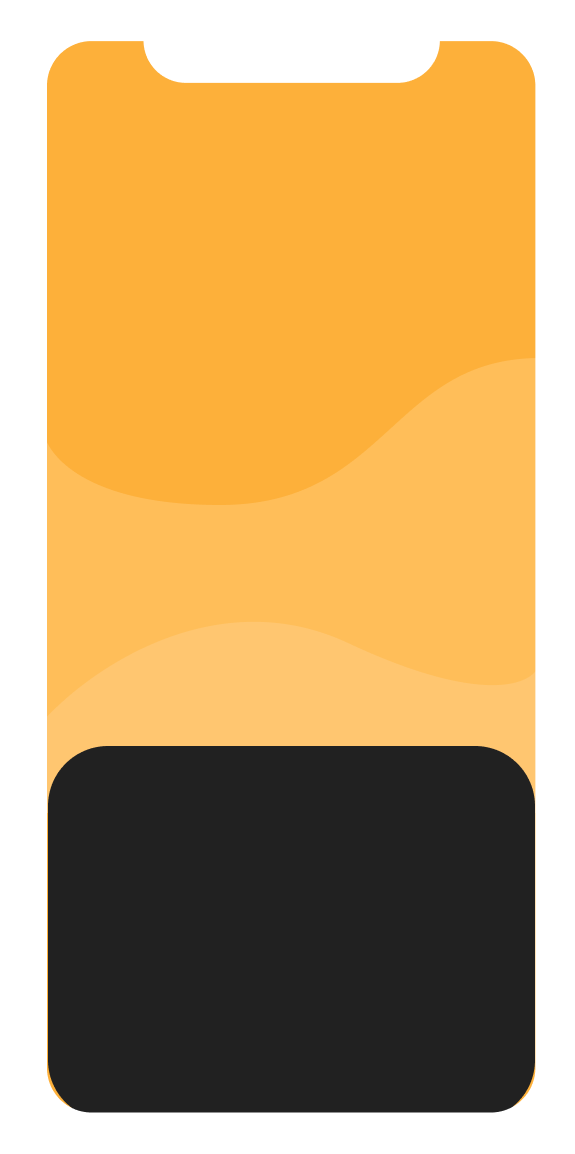
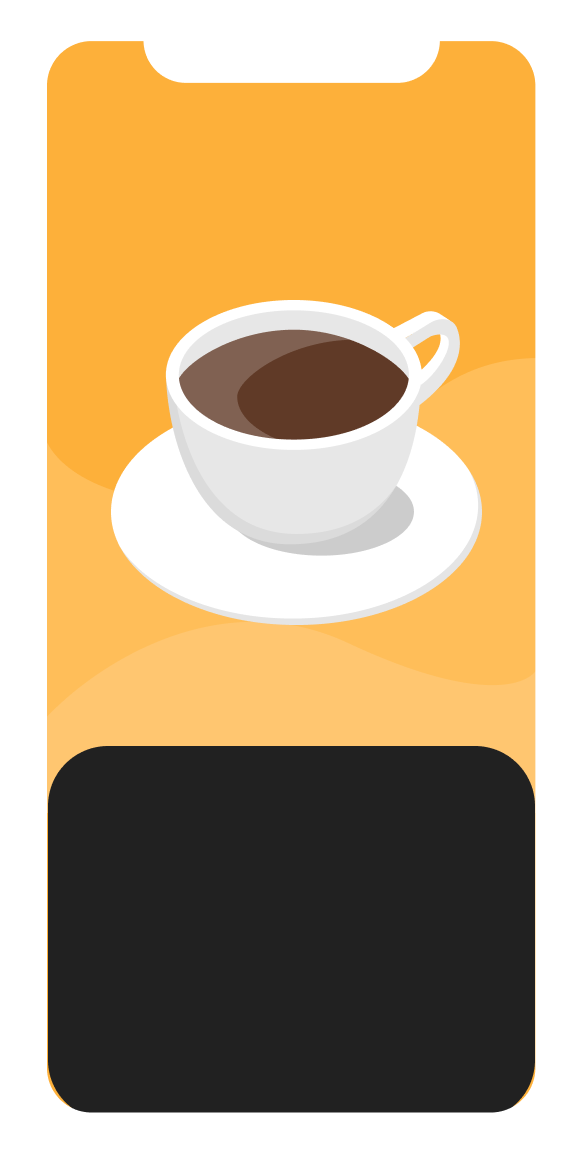
сделал слайдер

Changed region(s): [[0.1774, 0.2496, 0.8574, 0.5615]]

diff --git a/src/components/FirsScreens.vue b/src/components/FirsScreens.vue
@@ -1,0 +1,340 @@
+<template>
+  <div class="step1" id="slider" >
+  
+    <div class="FirsScreen">
+    <div class="container_logo">
+      <img class="logo" src="../assets/logo.svg" alt="">
+    </div>
+    <div class="container_mobile_photo">
+      <img v-show="step == 1" class="mobile_photo" src="../assets/screen_1.png" alt="">
+      <img v-show="step == 2" class="mobile_photo" src="../assets/screen_2.png" alt="">
+      <img v-show="step == 3" class="mobile_photo" src="../assets/screen_3.png" alt="">
+    </div>
+    <div class="container_title">
+      <h1>
+        {{step == 1 ? "Сканируй QR-Code" : ""}}
+        {{step == 2 ? "Просматривай меню" : ""}}
+        {{step == 3  ? "Смотри в 3D" : ""}}
+      </h1>
+
+      <div class="steps">
+        <span :style="step > 0 ? 'opacity: 1' : 'opacity: 0.5' " class="step steps1"></span>
+        <span :style="step > 1 ? 'opacity: 1' : 'opacity: 0.5' " class="step steps2"></span>
+        <span :style="step > 2 ? 'opacity: 1' : 'opacity: 0.5' " class="step steps3"></span>
+      </div>
+
+      <div class="btns">
+        <div class="btns_group">
+          <button @click="backStap" class="btn btn_cancel">
+            <img 
+              class="img_in_btn" 
+              :src="step > 1 ? require('../assets/back.png') : require('../assets/cancel.png')" 
+              alt="back screen" >
+            </button>
+          <button @click="nextStap" class="btn btn_to">
+            <img class="img_in_btn" 
+            :src="step <= 2 ? require('../assets/to.png') : require('../assets/backToMain.png')" 
+            alt="to next screen">
+          </button>
+        </div>
+      </div>
+    </div>
+  </div>
+
+  <div class="FirsScreen">
+    <div class="container_logo">
+      <img class="logo" src="../assets/logo.svg" alt="">
+    </div>
+    <div class="container_mobile_photo">
+      <img v-show="step == 1" class="mobile_photo" src="../assets/screen_1.png" alt="">
+      <img v-show="step == 2" class="mobile_photo" src="../assets/screen_2.png" alt="">
+      <img v-show="step == 3" class="mobile_photo" src="../assets/screen_3.png" alt="">
+    </div>
+    <div class="container_title">
+      <h1>
+        {{step == 1 ? "Сканируй QR-Code" : ""}}
+        {{step == 2 ? "Просматривай меню" : ""}}
+        {{step == 3  ? "Смотри в 3D" : ""}}
+      </h1>
+
+      <div class="steps">
+        <span :style="step > 0 ? 'opacity: 1' : 'opacity: 0.5' " class="step steps1"></span>
+        <span :style="step > 1 ? 'opacity: 1' : 'opacity: 0.5' " class="step steps2"></span>
+        <span :style="step > 2 ? 'opacity: 1' : 'opacity: 0.5' " class="step steps3"></span>
+      </div>
+
+      <div class="btns">
+        <div class="btns_group">
+          <button @click="backStap" class="btn btn_cancel">
+            <img 
+              class="img_in_btn" 
+              :src="step > 1 ? require('../assets/back.png') : require('../assets/cancel.png')" 
+              alt="back screen" >
+            </button>
+          <button @click="nextStap" class="btn btn_to">
+            <img class="img_in_btn" 
+            :src="step <= 2 ? require('../assets/to.png') : require('../assets/backToMain.png')" 
+            alt="to next screen">
+          </button>
+        </div>
+      </div>
+    </div>
+  </div>
+
+  <div class="FirsScreen">
+    <div class="container_logo">
+      <img class="logo" src="../assets/logo.svg" alt="">
+    </div>
+    <div class="container_mobile_photo">
+      <img v-show="step == 1" class="mobile_photo" src="../assets/screen_1.png" alt="">
+      <img v-show="step == 2" class="mobile_photo" src="../assets/screen_2.png" alt="">
+      <img v-show="step == 3" class="mobile_photo" src="../assets/screen_3.png" alt="">
+    </div>
+    <div class="container_title">
+      <h1>
+        {{step == 1 ? "Сканируй QR-Code" : ""}}
+        {{step == 2 ? "Просматривай меню" : ""}}
+        {{step == 3  ? "Смотри в 3D" : ""}}
+      </h1>
+
+      <div class="steps">
+        <span :style="step > 0 ? 'opacity: 1' : 'opacity: 0.5' " class="step steps1"></span>
+        <span :style="step > 1 ? 'opacity: 1' : 'opacity: 0.5' " class="step steps2"></span>
+        <span :style="step > 2 ? 'opacity: 1' : 'opacity: 0.5' " class="step steps3"></span>
+      </div>
+
+      <div class="btns">
+        <div class="btns_group">
+          <button @click="backStap" class="btn btn_cancel">
+            <img 
+              class="img_in_btn" 
+              :src="step > 1 ? require('../assets/back.png') : require('../assets/cancel.png')" 
+              alt="back screen" >
+            </button>
+          <button @click="nextStap" class="btn btn_to">
+            <img class="img_in_btn" 
+            :src="step <= 2 ? require('../assets/to.png') : require('../assets/backToMain.png')" 
+            alt="to next screen">
+          </button>
+        </div>
+      </div>
+    </div>
+  </div>  
+
+  </div>
+</template>
+
+<script>
+  export default {
+    name: 'FirsScreen',
+    data() {
+      return {
+        step: 1,
+      }
+    },
+    methods: {
+      nextStap() {
+        if (this.step == 1) {
+          this.step++
+          document.querySelector('#slider').style.left = '-100vw'
+          document.querySelector('#slider').style.width = '200vw'
+        } 
+        else if (this.step == 2) {
+          this.step++
+          document.querySelector('#slider').style.left = '-200vw'
+          document.querySelector('#slider').style.width = '300vw'
+
+        }
+        else if (this.step == 3) this.toMainScreen()
+      },
+      backStap() {
+        if (this.step == 1) {
+          return null
+        } 
+        else if (this.step == 2) {
+          this.step = 1
+          document.querySelector('#slider').style.left = '0vw'
+          // document.querySelector('#slider').style.width = '100vw'
+          
+        } 
+        else if (this.step == 3) {
+          this.step--
+          document.querySelector('#slider').style.left = '-100vw'
+          // document.querySelector('#slider').style.width = '200vw'
+        } 
+      },
+      toMainScreen() {
+        this.$emit('toMainScreen')
+      }
+    }
+  }
+</script>
+
+<style scoped lang="scss">
+#slider {
+  transition: all 0.3s;
+  width: 100vw;
+  // left: 00vw;
+  display: inline-flex;
+  flex-shrink: 0;
+  flex-grow: 1;
+}
+.FirsScreen {
+  min-width: 100vw!important;
+}
+.step1 {
+  display: flex;
+  align-items: center;
+  width: 300vw;
+  height: 100%;
+  overflow-x: hidden;
+  position: absolute;
+  left: 0vh;
+}
+  .FirsScreen {
+    min-width: 100vw;
+    height: 100vh;
+
+    display: flex;
+    flex-wrap: wrap;
+
+    .container_logo {
+      width: 100%;
+      margin-top: 10px;
+
+      display: flex;
+      justify-content: center;
+      align-items: center;
+
+      .logo {
+        width: 108px;
+      }
+    }
+
+    .container_mobile_photo {
+      width: 100%;
+
+      display: flex;
+      justify-content: center;
+      align-items: center;
+
+      .mobile_photo {
+        max-height: calc(100vh - 300px);
+        max-width: 90vw;
+      }
+    }
+
+    .container_title {
+      width: 100%;
+      // height: 100px;
+      display: flex;
+      justify-content: center;
+      align-items: center;
+      flex-wrap: wrap;
+
+      h1 {
+        font-family: Montserrat;
+        font-style: normal;
+        font-weight: 600;
+        font-size: 22px;
+        line-height: 88px;
+        color: #FFFFFF;
+        text-align: center;
+
+        margin-top: -20px;
+      }
+
+      .steps{
+        width: 100%;
+        height: 20px;
+
+        display: flex;
+        justify-content: center;
+        align-items: center;
+
+        margin-top: -60px;
+        z-index: 2;
+
+        .step{
+          width: 8px;
+          height: 8px;
+
+          display: block;
+          border-radius: 10px;
+          background: #fff;
+          opacity: 0.5;
+          margin-left: 9px;
+          margin-right: 9px;
+        }
+      }
+
+      .btns {
+        width: 100%;
+
+        display: flex;
+        justify-content: center;
+        align-items: center;
+
+        margin-top: -20px;
+        margin-bottom: 20px;
+
+        .btn_cancel {
+          background: #000000;
+
+          width: 40px;
+          height: 40px;
+
+          border-radius: 100%;
+          padding: 10px;
+          margin-right: 5px;
+        }
+
+        .btn_to {
+          background: #fff;
+
+          width: 60px;
+          height: 60px;
+
+          border-radius: 100%;
+          padding: 10px;
+          margin-left: 5px;
+        }
+
+
+        .btns_group {
+          display: flex;
+          justify-content: center;
+          align-items: center;
+
+          margin-left: -50px;
+        }
+
+        .btn {
+          display: flex;
+          justify-content: center;
+          align-items: center;
+
+          border: none;
+          cursor: pointer;
+        }
+
+        .img_in_btn {
+          width: 60%;
+        }
+      }
+    }
+  }
+
+  
+  // .bounce-enter-active {
+  //   transition: all 0.3s;
+  //   // transform: translateX(100vw);
+  //   // transform: translateX(75vw);
+  //   // transform: translateX(50vw);
+  //   transform: translateX(100vw);
+  // }
+  // .bounce-leave-active {
+  //   transition: all 0.3s;
+  //   transform: translateX(-100vw);
+  // }
+</style>

diff --git a/src/App.vue b/src/App.vue
@@ -1,6 +1,9 @@
 <template>
   <div id="app">
-    <FirsScreen
+    <!-- <FirsScreen
+        v-if="screen == 0"
+        @toMainScreen='toMainScreen' /> -->
+    <FirsScreens
         v-if="screen == 0"
         @toMainScreen='toMainScreen' />
 
@@ -26,7 +29,8 @@
 </template>
 
 <script>
-import FirsScreen from './components/FirsScreen.vue'
+// import FirsScreen from './components/FirsScreen.vue'
+import FirsScreens from './components/FirsScreens.vue'
 import MainScreen from './components/MainScreen.vue'
 import MenuScreen from './components/Menu'
 import ProductScreen from './components/Product'
@@ -35,7 +39,8 @@ import ProductScreen3D from './components/Product3D'
 export default {
   name: 'App',
   components: {
-    FirsScreen,
+    // FirsScreen,
+    FirsScreens,
     MainScreen,
     MenuScreen,
     ProductScreen,
@@ -94,5 +99,9 @@ body {
   height: 100%;
   width: 100%;
   background: #212121;
+  overflow-x: hidden;
+}
+html {
+  overflow-x: hidden;
 }
 </style>

diff --git a/src/components/Menu.vue b/src/components/Menu.vue
@@ -43,7 +43,7 @@
             dataMenu: {}
         },
         mounted() {
-            fetch(`http://localhost:3000/api/get_menu?${this.dataMenu}`)
+            fetch(`https://nikita.tech/api/ewyz/get_menu?${this.dataMenu}`)
                 .then(response => response.text())
                 .then((response) => {
                     this.data = JSON.parse(response)
